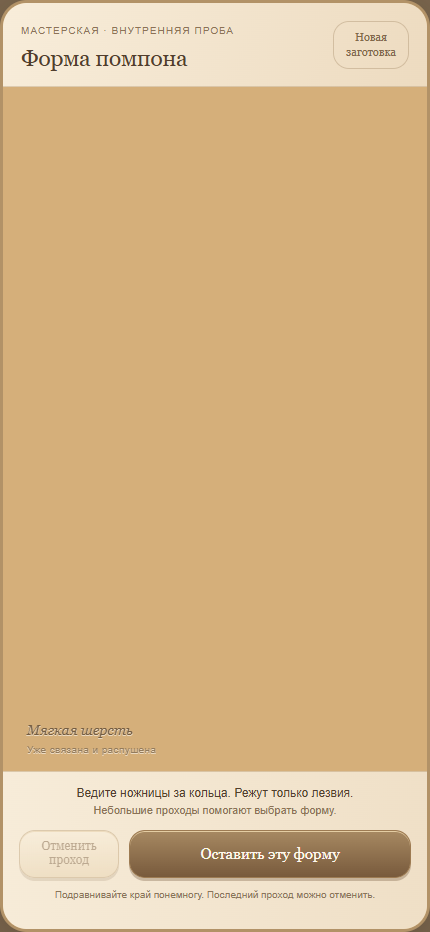
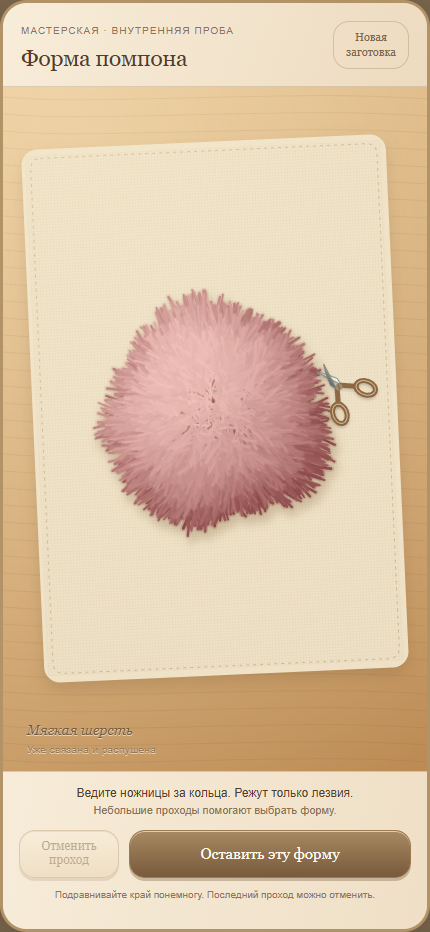
prototype: mark resized canvas ready only after repaint

diff --git a/product/research/craft-material-v1/prototype/README.md b/product/research/craft-material-v1/prototype/README.md
@@ -46,3 +46,5 @@ A second defect emerged during the repair: sampling only separated blade lines m
 Regression evidence: `../evidence/07-model-regression.mjs` tests the full physical geometry after complete vertical/horizontal cuts, actual blade sweeps, unchanged right-side fibers, repeat, undo, reload, finish and rejection of v1 saves. Run it with Node. In real UI gestures, a shallow x=-.88 pass left the edge at -.79656; a deeper x=-.47 pass moved it to -.38656; a y=-.72 top pass moved the top to -.63656. The .08344 offset is half of the diagonal blade's projected span. The outcome is the actual deliberately asymmetric cut shape, with no detached clumps remaining outside it.
 
 The author inspected `07-central-roots-{initial,shallow,deep,top}.png`. Cached-vs-full-reload RGBA checks were repeated for all three cuts, not only the shallow one: maximum channel differences 2/4/5 out of 255, pixels differing by more than 2 levels 0/1/2, mean differences below .007/255. Lengths reloaded exactly; browser errors were zero. Measurements are in `07-central-roots-measurements.json`. These checks address the model defect; they do not approve the remaining material/gesture quality.
+
+The first 430px resize capture landed after canvas clearing but before the next paint. That failed capture is retained as `07-central-roots-resize-before-paint-430.png`; the corrected `07-central-roots-initial-430.png` was taken after two animation frames and readiness. Resize now clears the ready flag until its replacement frame is painted. The failed frame is not presented as evidence of a finished material render.
